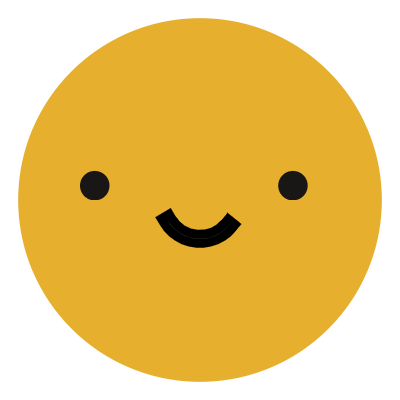
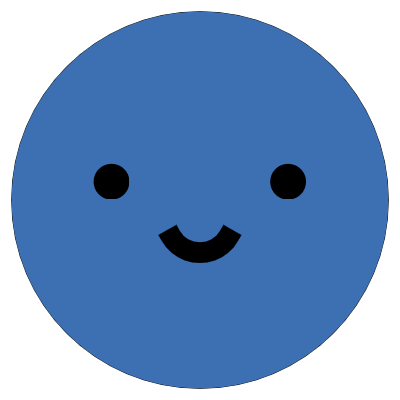
refac topbar new styles

diff --git a/src/components/layout/topbar/dropdown/dropdown.scss b/src/components/layout/topbar/dropdown/dropdown.scss
@@ -1,43 +1,65 @@
 @import '../../../../globalStyles/colors.scss';
 
-.topbar-dropdown {
+.topbar__dropdown {
 
-    ul {
-        text-transform: uppercase;
+    font-size: 1.1rem;
+    ul >li {
+        text-align: right;
+        
+        &:hover ul.topbar__dropdown-menu>li.topbar__dropdown-menu__item {
+            display: block;
+        }
+        
+        >ul.topbar__dropdown-menu {
+            position: absolute;
+            margin-top: 1rem;
+            right: 0;
+            width: 100%;
+            background-color: $color-white-translucent;
+            border-radius: 5px;
+            
+            >li.topbar__dropdown-menu__item {
+                display: none;
+                padding: 0.25rem 1.25rem;
+                line-height: 2rem;
 
-        >li {
-            position: relative;
-            text-align: right;
+                >* {
+                    padding: 0;
+                    margin:0;
+                    border: none;
+                    outline: none;
+                    color: $color-header;
 
-            &:hover ul>li {
-                display: block;
-            }
-
-            >ul {
-                position: absolute;
-                right: 0;
-                width: 100vw;
-                background-color: $color-dark-95;
-                border-radius: 5px;
-
-                >li {
-                    display: none;
-                    line-height: 2rem;
+                    &:hover, &:active, &:focus {
+                        font-weight: 600;
+                    }
                 }
             }
+        }
 
-            a.avatar-a {
-                display: block;
+        .topbar__avatar-link {
+            display: block;
 
-                >.avatar {
-                    height: 3rem;
-                }
+            >.topbar__avatar-img {
+                height: 3rem;
             }
         }
     }
 
     @media screen and (max-width: 770px) {
-        // flex: 2
+        ul > li > ul.topbar__dropdown-menu {
+            margin-top: 0;
+
+            >li.topbar__dropdown-menu__item:last-child {
+                padding-bottom: 1rem;
+            }
+        }
+    }
+
+    @media screen and (max-width: 480px) {
+        ul > li > ul.topbar__dropdown-menu >li.topbar__dropdown-menu__item:last-child {
+            padding-bottom: 10vh;
+        }
     }
 
     @media screen and (max-width: 320px) {
@@ -46,8 +68,8 @@
         ul>li {
             text-align: center;
 
-            a.avatar-a {
-                padding: 1rem;
+            .topbar__avatar-link {
+                padding-top: 1rem;
             }
 
             >ul {

diff --git a/src/components/layout/topbar/navigation/navigation.scss b/src/components/layout/topbar/navigation/navigation.scss
@@ -1,9 +1,10 @@
 @import '../../../../globalStyles/colors.scss';
 
-.topbar-navigation {
+.topbar__navigation {
     padding: 0 1rem;
     flex: 2 2 400px;
     flex-wrap: wrap;
+    margin-left: 1.5rem;
 
     ul {
         display: flex;
@@ -12,66 +13,68 @@
         >li {
             padding: 0 1rem;
 
-            button {
-                color: $color-header;
-                border:none;
+            &.navbar__search-icon:hover >* {
+                color:inherit;
             }
 
-            &.search-bar {
+            &:hover >* {
+                color:$color-logo;
+            }
+
+            &.navbar__search-bar {
                 padding: 0;
-            }
-
-            .search-input {
-                transition: all 1s ease-in-out;
-
-                &.visible {
-                    width: 14rem;
-                }
-
-                &.invisible {
-                    width: 0;
-                    border: 1px dashed $color-dark;
+                
+                .navbar__search-input {
+                    font-size: 1.1rem;
+                    color: $color-logo;
                 }
             }
         }
     }
 
     @media screen and (max-width: 770px) {
+        margin: 0;
         flex: 1 1 100%;
         order: 2;
-        padding: 0.5rem 0;
+        padding: 0;
         justify-content: center;
-
-        ul>li:first-child {
-            padding-left: 0;
-        }
-    }
-
-    @media screen and (max-width: 592px) {
-
+        
         ul>li {
             text-align: center;
 
             &:not(:last-child) {
-                flex-basis: 25%;
+                flex: 10 10 25%;
+            }
+            
+            &.navbar__search-bar {
+                flex: 1 1 75%; 
+            }
+            
+            &.navbar__search-icon {
+                display: none;
+            }
+
+            &:first-child {
+                padding-left: 0;
             }
         }
     }
 
     @media screen and (max-width: 480px) {
+        margin: 0;
         ul {
             flex-wrap: wrap;
             align-content: space-between;
-
+            
             >li {
                 padding: 1rem 0;
 
-                &.search-bar {
-                    flex-basis: 100%;
-
-                    .search-input.visible {
-                        width: 90%;
-                    }
+                &:not(:last-child) {
+                    flex: 1 1 30%;
+                }
+                
+                &.navbar__search-bar {
+                    flex: 1 1 100%; 
                 }
             }
         }

diff --git a/src/components/layout/topbar/navigation/navigation.tsx b/src/components/layout/topbar/navigation/navigation.tsx
@@ -6,16 +6,11 @@ import { useAppDispatch, useAppSelector } from '../../../../app/hooks';
 import './navigation.scss';
 
 const Navigation = () => {
-    const [visible, setVisible] = useState(false);
     const [searchValue, setSearchValue] = useState("");
 
     const dispatch = useAppDispatch();
     const history = useHistory();
     const { _id } = useAppSelector(userSelector);
-
-    const handleVisibility = () => {
-        setVisible(prev => !prev);
-    };
 
     function handleEnterPress(e: React.KeyboardEvent<HTMLInputElement>) {
         if (e.key === "Enter" && searchValue !== "") {
@@ -25,7 +20,7 @@ const Navigation = () => {
     }
 
     return (
-        <div className="topbar-navigation">
+        <div className="topbar__navigation">
             <ul>
                 <li>
                     <Link to="/dashboard"><i className="fas fa-border-all"></i></Link>
@@ -36,12 +31,12 @@ const Navigation = () => {
                 <li>
                     <Link to="/search-friends"><i className="fas fa-users"></i></Link>
                 </li>
-                <li>
+                <li className="navbar__search-icon">
                     <i className="fas fa-search"></i>
                 </li>
-                <li className="search-bar">
+                <li className="navbar__search-bar">
                     <input
-                        className="search-input visible"
+                        className="navbar__search-input"
                         placeholder="Search movie..."
                         type="text"
                         value={searchValue}

diff --git a/src/components/layout/topbar/dropdown/dropdown.tsx b/src/components/layout/topbar/dropdown/dropdown.tsx
@@ -10,19 +10,19 @@ const Dropdown = () => {
     const dispatch = useAppDispatch();
     const history = useHistory();
 
-    const handleLogOut = ()=> {
+    const handleLogOut = () => {
         dispatch(logout());
         history.push("/");
     }
 
     return (
-        <div className="topbar-dropdown">
+        <div className="topbar__dropdown">
             <ul>
                 <li>
-                    <a className="avatar-a" href="#"><img className="avatar" src={avatardefault} /></a>
-                    <ul>
-                        <li><Link to="/settings">Settings</Link></li>
-                        <li><button onClick={handleLogOut}>Log Out</button></li>
+                    <a className="topbar__avatar-link" href="#"><img className="topbar__avatar-img" src={avatardefault} /></a>
+                    <ul className="topbar__dropdown-menu">
+                        <li className="topbar__dropdown-menu__item"><Link to="/settings">Settings</Link></li>
+                        <li className="topbar__dropdown-menu__item"><button onClick={handleLogOut}>Log Out</button></li>
                     </ul>
                 </li>
             </ul>

diff --git a/src/globalStyles/globalStyles.scss b/src/globalStyles/globalStyles.scss
@@ -39,7 +39,7 @@ ol {
 h1,
 h2,
 h3 {
-    color: $color-yellow;
+    color: $color-logo;
     font-weight: 500;
 }
 
@@ -126,19 +126,24 @@ input {
         
     }
 
+    &::placeholder {
+        font-size: 1rem;
+        color: $color-placeholder;
+    }
+
     &[type=file] {
         padding: 0 0.5rem 0 0;
     }
 
-    &::file-selector-button {
-        // background-color: inherit;
-        // color: inherit;
-        // padding: 0.5rem;
-        // border: none;
-        // border-right: 1px dashed $color-yellow;
-        // cursor: pointer;
-        // margin-right: 10px;
-    }
+    // &::file-selector-button {
+    //     background-color: inherit;
+    //     color: inherit;
+    //     padding: 0.5rem;
+    //     border: none;
+    //     border-right: 1px dashed $color-yellow;
+    //     cursor: pointer;
+    //     margin-right: 10px;
+    // }
 
 
 }

diff --git a/src/components/layout/topbar/topbar.scss b/src/components/layout/topbar/topbar.scss
@@ -1,10 +1,22 @@
+@import '../../../globalStyles/colors.scss';
+
 .topbar {
+    background-color: $color-white;
+    width: 100%;
+    position: sticky;
+    z-index: 100;
     display: flex;
     justify-content: space-between;
     align-items: center;
     flex-wrap: wrap;
-    padding: 1.2rem 2rem;
+    padding: 0.5rem 2rem;
     font-size: 1.2rem;
+    
+    .topbar__logo {
+        font-size: 1.8rem;
+        padding: 0px;
+        color: $color-logo;
+    }
 
     @media screen and (max-width: 320px) {
         flex-direction: column;

diff --git a/src/components/layout/topbar/topbar.tsx b/src/components/layout/topbar/topbar.tsx
@@ -2,12 +2,12 @@ import React from 'react';
 import './topbar.scss';
 import Navigation from './navigation/navigation';
 import Dropdown from './dropdown/dropdown';
-import TopLogo from '../../ui/topLogo/topLogo';
+import { Link } from 'react-router-dom';
 
 const Topbar = () => {
     return (
         <div className="topbar">
-            <TopLogo />
+            <Link to="/"><h1 className="topbar__logo">MovieMatch</h1></Link>
             <Navigation />
             <Dropdown />
         </div>

diff --git a/src/globalStyles/colors.scss b/src/globalStyles/colors.scss
@@ -12,7 +12,9 @@ $color-logo: #3d70b2;
 $color-accent: #e8e8e8;
 $color-header: #344258;
 $color-dark: #757a91;
+$color-placeholder: #8b8f9e;
 $color-input: #fcfcfc;
 $color-button: #363636;
 $color-button-background: #3f88e3;
 $color-important: #ec5b5b;
+$color-white-translucent: rgba(255, 255, 255, 0.95);
